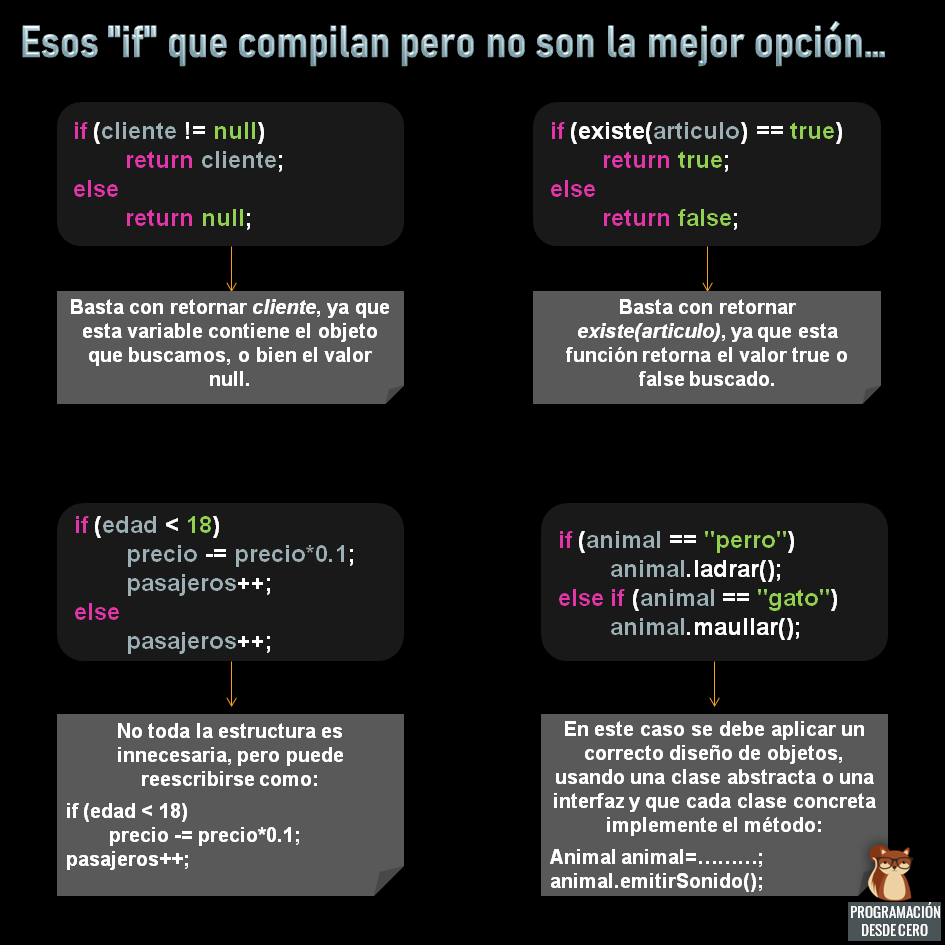
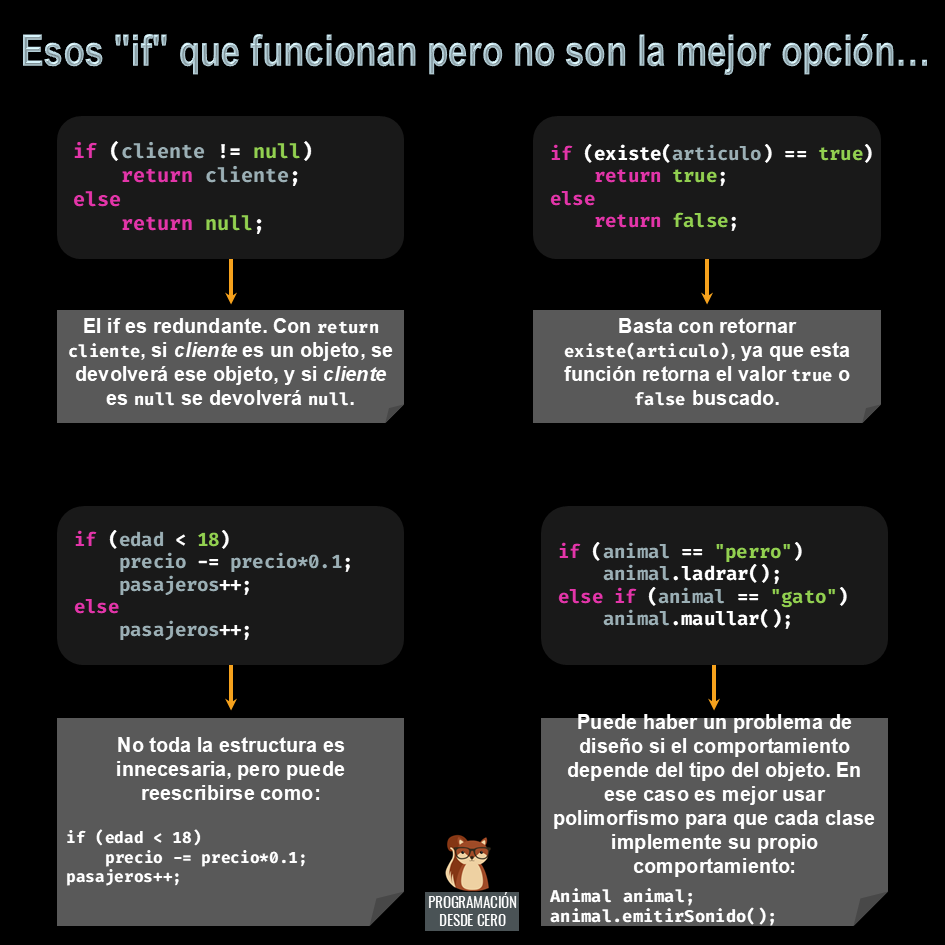
Update content and improve wording.

diff --git a/_posts/2019-09-22-buenas-practicas-condicionales.md b/_posts/2019-09-22-buenas-practicas-condicionales.md
@@ -7,10 +7,10 @@ tags: practicas condicionales
 published: true
 ---
 
-👉 Que compile no significa que haga lo que se pide. Pero que compile y que haga lo que se pide no significan que la implementación sea correcta.
+👉 Que compile no significa que haga lo que se pide. Pero que compile y que haga lo que se necesita, tampoco significa que la implementación sea correcta.
 
 Estos son algunos ejemplos para mejorar nuestros condicionales.
 
-😎 Las buenas prácticas distinguen a los buenos programadores.
+Porque las buenas prácticas distinguen a los buenos desarrolladores.
 
 ![Condicionales]({{ site.url }}/assets/2019-09-22-buenas-practicas-condicionales.png)
